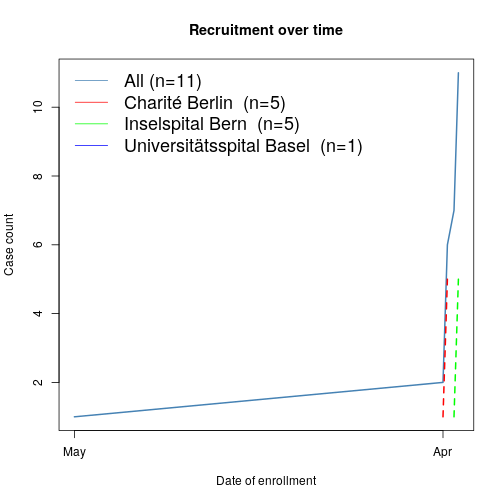
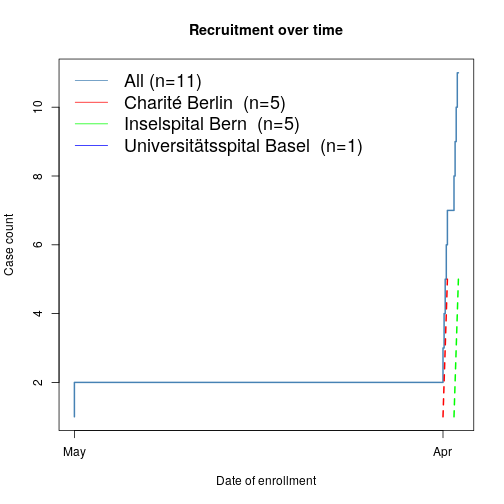
plot recruitment in steps

diff --git a/README.md b/README.md
@@ -2,7 +2,7 @@
 <!-- README.md is generated from README.Rmd. Please edit that file -->
 
 
-# secuTrialR ![travis](https://api.travis-ci.com/SwissClinicalTrialOrganisation/secuTrialR.svg?branch=master) [![codecov](https://codecov.io/github/SwissClinicalTrialOrganisation/secuTrialR/branch/master/graphs/badge.svg)](https://codecov.io/github/SwissClinicalTrialOrganisation/secuTrialR) [![](https://img.shields.io/badge/dev%20version-0.4.11-blue.svg)](https://github.com/SwissClinicalTrialOrganisation/secuTrialR)
+# secuTrialR ![travis](https://api.travis-ci.com/SwissClinicalTrialOrganisation/secuTrialR.svg?branch=master) [![codecov](https://codecov.io/github/SwissClinicalTrialOrganisation/secuTrialR/branch/master/graphs/badge.svg)](https://codecov.io/github/SwissClinicalTrialOrganisation/secuTrialR) [![](https://img.shields.io/badge/dev%20version-0.4.12-blue.svg)](https://github.com/SwissClinicalTrialOrganisation/secuTrialR)
 
 An R package to handle data from the clinical data management system (CDMS) [secuTrial](https://www.secutrial.com/en/).
 
